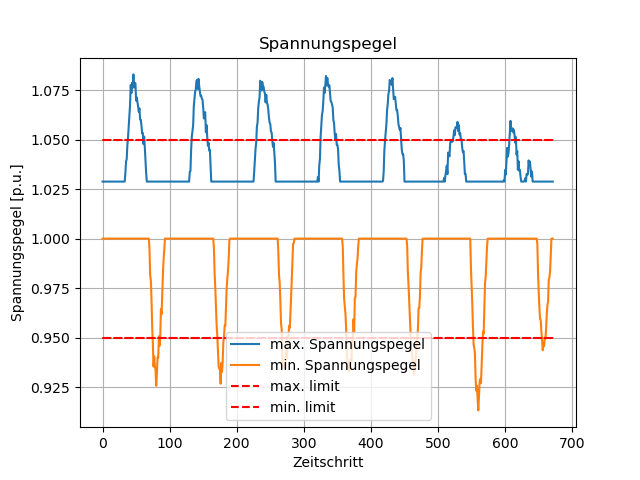
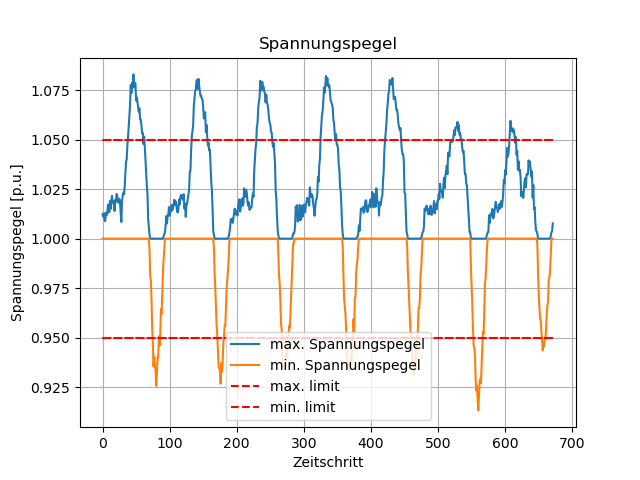
update_4.2

Changed region(s): [[0.1562, 0.375, 0.5, 0.5], [0.5312, 0.375, 0.875, 0.5]]

diff --git a/exercises/Kai-Luca/exercise_4/exercise_4.2.py b/exercises/Kai-Luca/exercise_4/exercise_4.2.py
@@ -42,14 +42,14 @@ def create_controllers(net, loads_area3, sgens_area3, ds):
     return net
 
 
-def create_output_writer(net, buses_area3, time_steps, output_dir):
+def create_output_writer(net, buses_area3, lines_area3, time_steps, output_dir):
     ow = OutputWriter(net, time_steps, output_path=output_dir, output_file_type=".xlsx", log_variables=list())
-    mask_hv_buses_area3 = net.bus.loc[buses_area3]
-    mask_lines_area3 = net.line[(net.line.from_bus.isin(buses_area3)) & net.line.to_bus.isin(buses_area3)].index
+    #mask_hv_buses_area3 = net.bus.loc[buses_area3]
+    #mask_lines_area3 = net.line[(net.line.from_bus.isin(buses_area3)) & net.line.to_bus.isin(buses_area3)].index
 
-    ow.log_variable("res_line", "loading_percent", index=mask_lines_area3, eval_function=np.max, eval_name="max. Leitungsauslastung")
-    ow.log_variable("res_bus", "vm_pu", index=mask_hv_buses_area3, eval_function=np.max, eval_name="max. Spannungspegel")
-    ow.log_variable("res_bus", "vm_pu", index=mask_hv_buses_area3, eval_function=np.min, eval_name="min. Spannungspegel")
+    ow.log_variable("res_line", "loading_percent", index=lines_area3, eval_function=np.max, eval_name="max. Leitungsauslastung")
+    ow.log_variable("res_bus", "vm_pu", index=buses_area3, eval_function=np.max, eval_name="max. Spannungspegel")
+    ow.log_variable("res_bus", "vm_pu", index=buses_area3, eval_function=np.min, eval_name="min. Spannungspegel")
 
 def timeseries_area3(output_dir):
     net, buses_area3, lines_area3, loads_area3, sgens_area3 = area3_net()
@@ -57,7 +57,7 @@ def timeseries_area3(output_dir):
     profiles, ds, n_timesteps = create_data_source()
     create_controllers(net, loads_area3, sgens_area3, ds)
     time_steps = range(0, n_timesteps)
-    create_output_writer(net, buses_area3, time_steps, output_dir=output_dir)
+    create_output_writer(net, buses_area3, lines_area3, time_steps, output_dir=output_dir)
     run_timeseries(net, time_steps)
     print(net.res_line.loading_percent)
 

diff --git a/exercises/Kai-Luca/exercise_4/exercise_4.4.py b/exercises/Kai-Luca/exercise_4/exercise_4.4.py
@@ -69,15 +69,15 @@ if not os.path.exists(output_dir):
     os.mkdir(output_dir)
 timeseries_area3(output_dir)
 
+
 vm_pu_file = os.path.join(output_dir, "res_bus", "vm_pu.xlsx")
 vm_pu = pd.read_excel(vm_pu_file, index_col=0)
 vm_pu.plot(label="vm_pu")
 plt.hlines(y=1.05, xmin=0, xmax=len(vm_pu), linestyles="dashed", label="max. limit", color="red")
 plt.hlines(y=0.95, xmin=0, xmax=len(vm_pu), linestyles="dashed", color="red", label="min. limit")
-plt.xlabel("time step")
+plt.xlabel("Zeitschritt")
 plt.ylabel("Spannungspegel [p.u.]")
 plt.title("Spannungspegel")
 plt.legend()
 plt.grid()
 plt.show()
-
